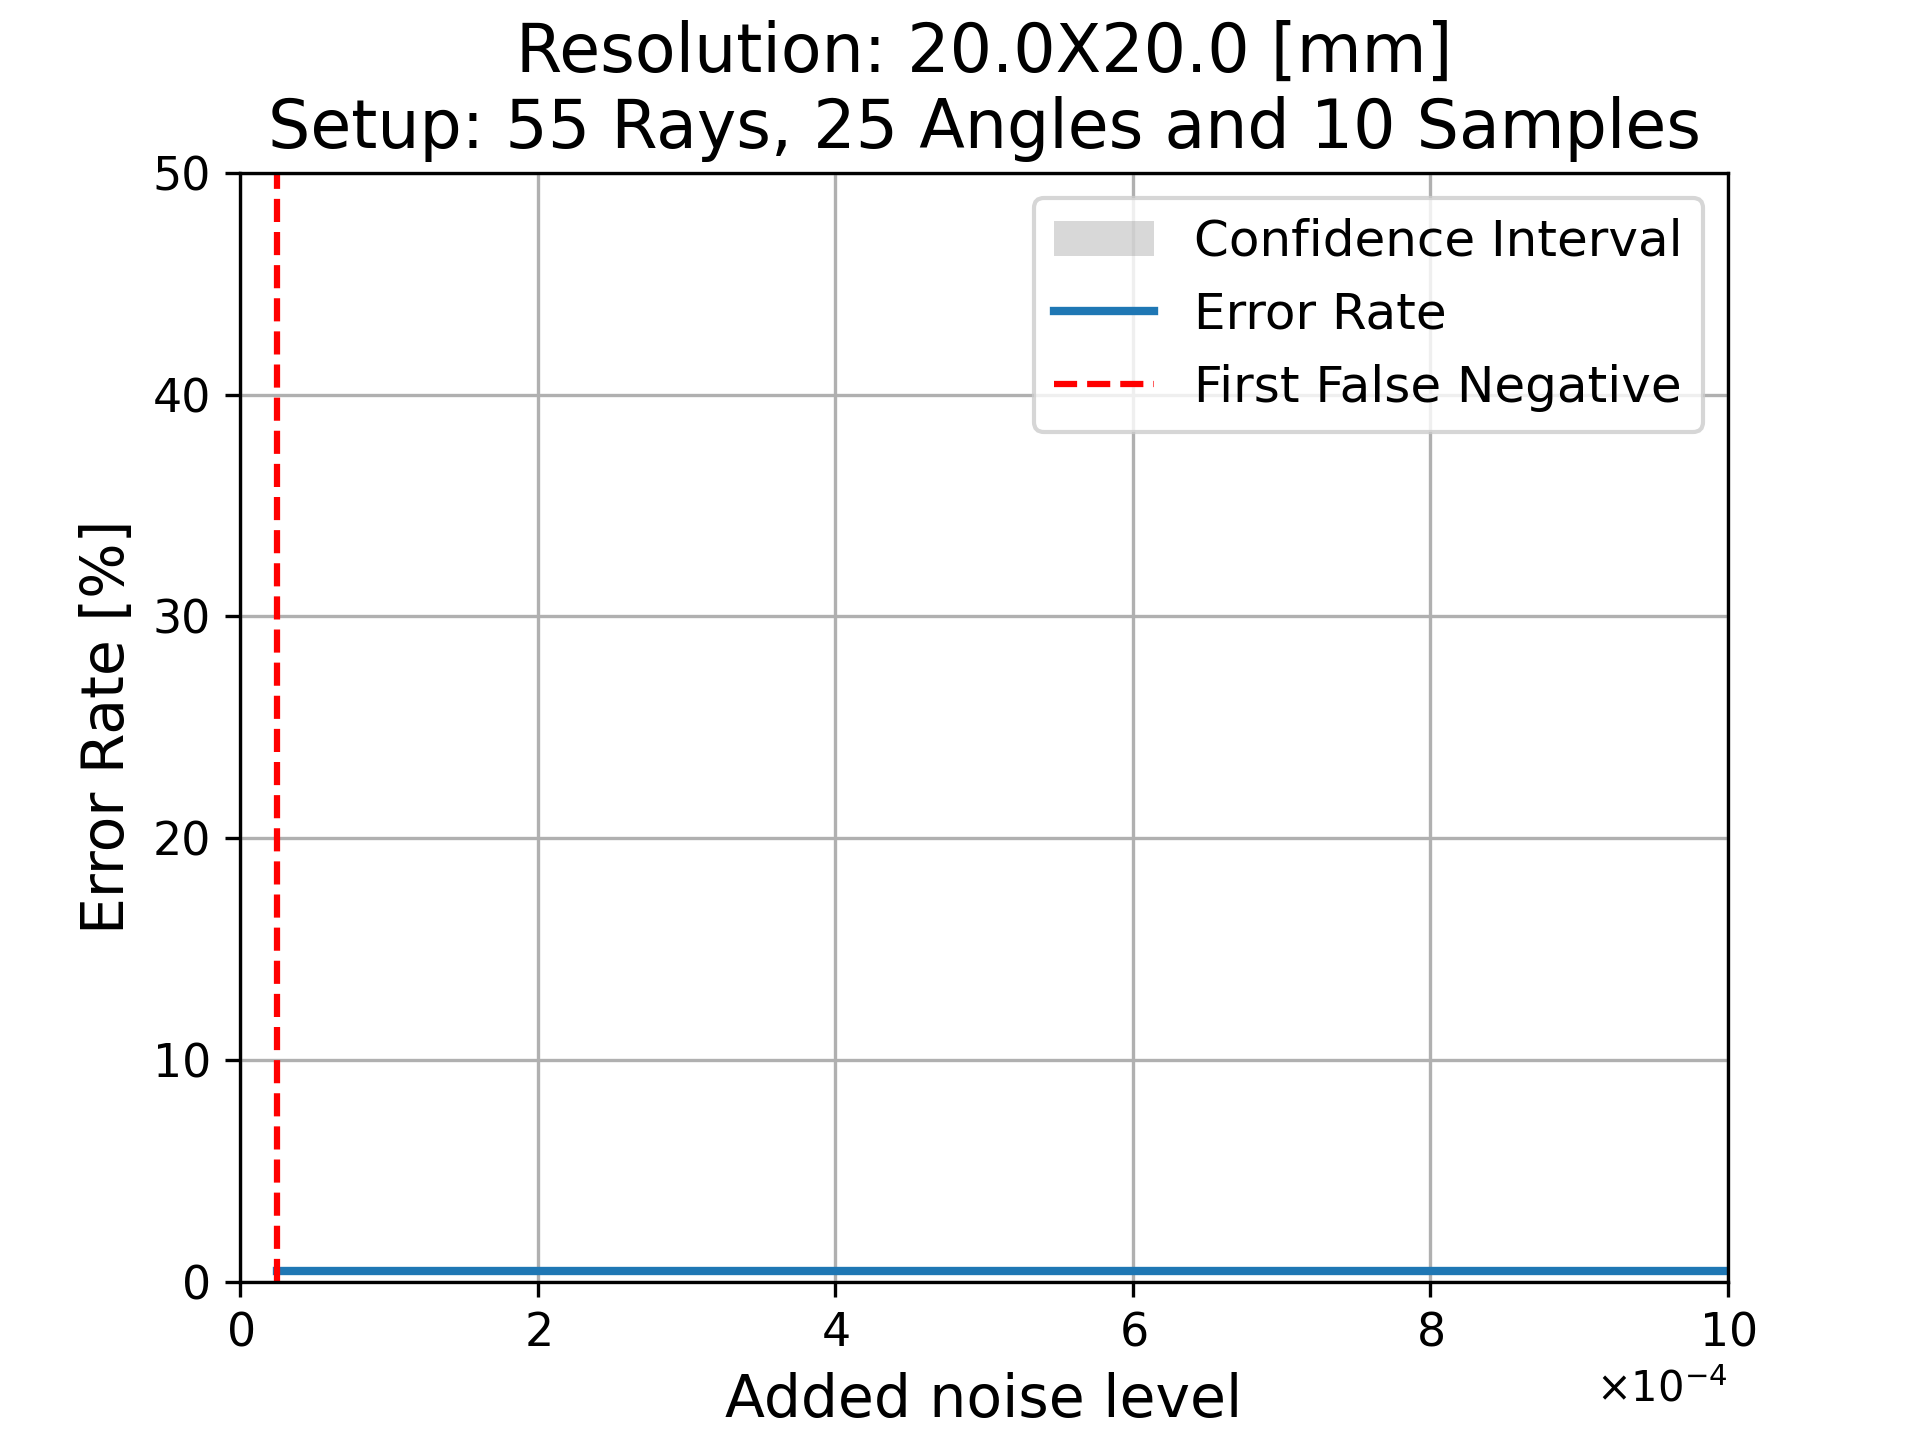
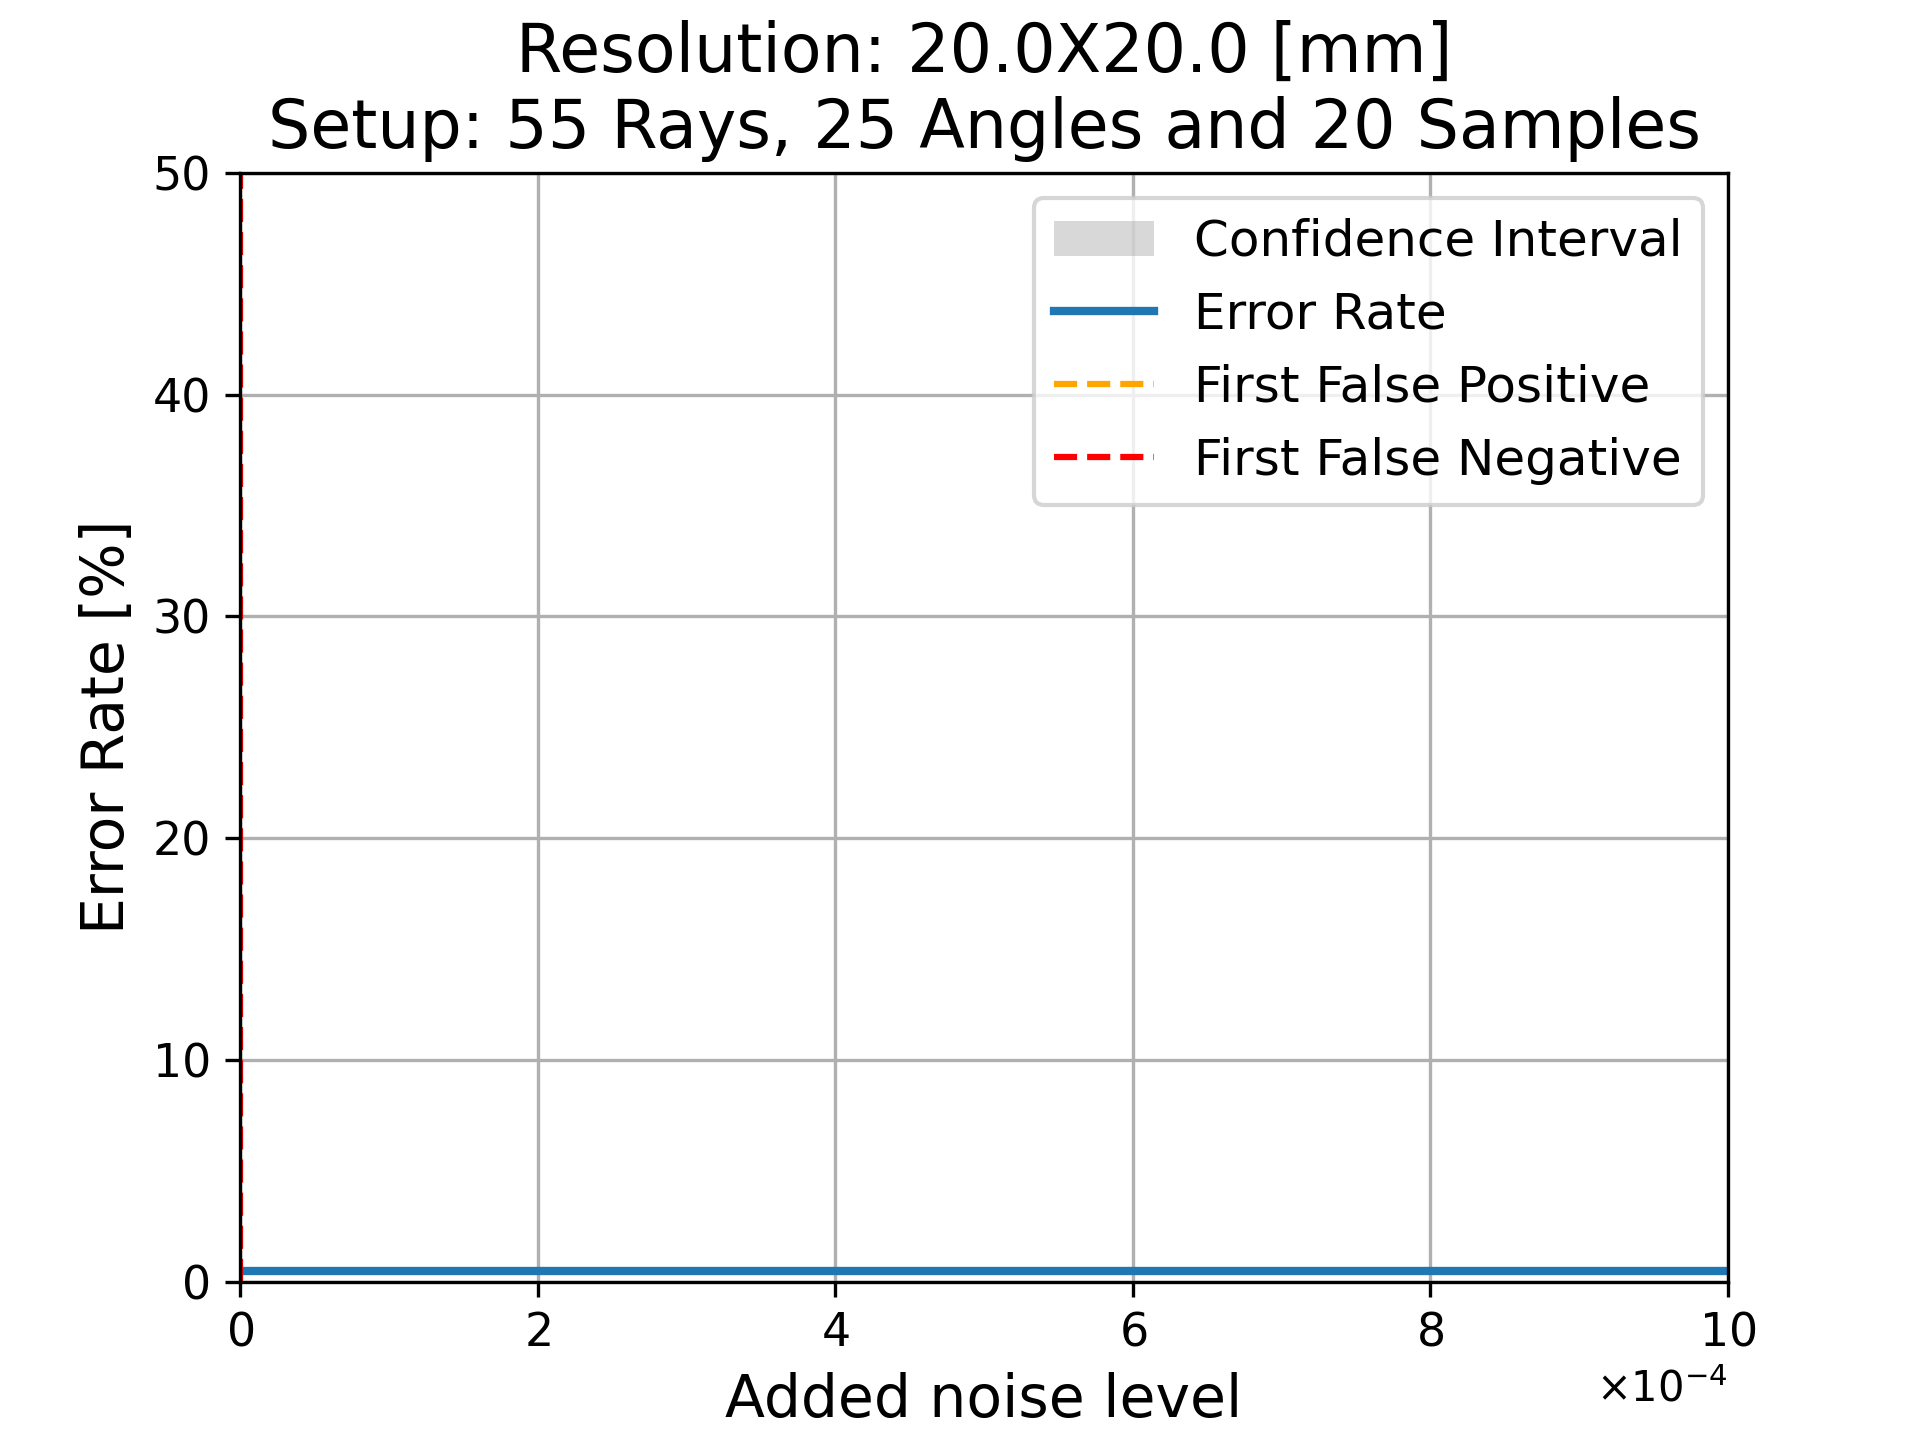
finalized final func

diff --git a/Exam_02526/final_func.py b/Exam_02526/final_func.py
@@ -8,7 +8,9 @@ def final_func(angle_no,
                 noise_limit = [1e-4, 1e-3], 
                 noise_size = 40, 
                 class_errors=True,
-                tree_type = 'beech'):
+                tree_type = 'beech',
+                ring_count = 10,
+                vol_pellet=1):
     import numpy as np
     import matplotlib.pyplot as plt
     from scipy.io import loadmat
@@ -19,12 +21,12 @@ def final_func(angle_no,
     from phanton_generator import phantom
 
     # Load the image with lead and steel shot
-    data = phantom(2,2, ring_count=1, wood_type=tree_type) #Pixel size: 0.1 mm, 5000x5000 pixels
+    data = phantom(2,2, ring_count=ring_count, wood_type=tree_type) #Pixel size: 0.1 mm, 5000x5000 pixels
 
     base_array = np.zeros(np.shape(data))   
-    known_wood = np.copy(base_array); known_wood[data == np.unique(data)[[1]]] = 1
-    known_iron= np.copy(base_array); known_iron[data == np.unique(data)[[2]]] = 1
-    known_lead = np.copy(base_array); known_lead[data == np.unique(data)[[3]]] = 1
+    known_wood = np.copy(base_array); known_wood[(data > 0) & (data < 6.5e-1)] = 1
+    known_iron= np.copy(base_array); known_iron[data == 6.5e-1] = 1
+    known_lead = np.copy(base_array); known_lead[data == 3.43] = 1
 
     # Downsample image
     downsizing = int(5e3/res) # define downsizing constant
@@ -118,7 +120,7 @@ def final_func(angle_no,
     plt.legend(fontsize=12)
     plt.grid()
     plt.title(f'Resolution: {500/res}X{500/res} [mm]\nSetup: {p} Rays, {angle_no} Angles and {sample_size} Samples', fontsize=16)
-    plt.savefig(f"Exam_02526/img/res{res}.png", dpi=300)
+    plt.savefig(f"Exam_02526/img/res{res}_{vol_pellet}.png", dpi=300)
     
 
     if class_errors==True:
@@ -153,7 +155,7 @@ def final_func(angle_no,
         cbar_ax = fig.add_axes([0.85, 0.15, 0.05, 0.7])
         cbar = fig.colorbar(im, cax=cbar_ax, ticks=[1, 2, 3, 4]) # Define colorbar
         cbar.ax.set_yticklabels(['Air', 'Tree', 'Iron', 'Lead']) # Define tick labels
-        plt.savefig(f"Exam_02526/img/classification_{res}.png")
+        plt.savefig(f"Exam_02526/img/classification_{res}_{vol_pellet}.png")
 
 
         fig, ax3 = plt.subplots()
@@ -168,9 +170,8 @@ def final_func(angle_no,
             yticklabels=['Wood', 'Iron', 'Lead']
         )
 
-        plt.savefig(f"Exam_02526/img/confusion{res}.png", dpi=300)
         ax3.set_ylabel('Real Class')
         ax3.set_xlabel('Modelled Class')
         ax3.set_title('Confusion Matrix')
-        plt.savefig(f"Exam_02526/img/confusion_{res}.png")
+        plt.savefig(f"Exam_02526/img/confusion_{res}_{vol_pellet}.png", dpi=300)
 

diff --git a/Exam_02526/viktor_edits.py b/Exam_02526/viktor_edits.py
@@ -9,7 +9,9 @@ angle_no = 25 # Define the number of angles to be used in paralleltomo.
 p = 55 # Define the number of rays to be used in paralleltomo.
 res = 25 # The picture will be (res x res). pixelwidth is (500/res mm)
 vol_pellet = 0.5 # Define how much of the pellet is inside the slice
-tree_type = 'Beech' # can be 'beech'/'fir'
+tree_type = 'Fir' # can be 'beech'/'fir'
+tree_ring_no = 10
+noise_lim = [2.5e-10, 1e-1]
 
 #%%
 # Load start time
@@ -26,7 +28,7 @@ elif tree_type == 'Fir':
 
 # Define the attenuation coefficients that are inside the slice
 x_steel_found = vol_pellet*x_steel + (1-vol_pellet)*x_tree
-x_lead_found = vol_pellet*x_lead + (1-vol_pellet)*x_lead
+x_lead_found = vol_pellet*x_lead + (1-vol_pellet)*x_tree
 
 # Define the pixel_width to be used for defining classification thresholds in image.
 pixel_width = 500/res # [mm]
@@ -35,8 +37,8 @@ print(f"the size of the pixels in the image is {pixel_width} mm")
 # Find the attenuation coefficients within the tree
 air_mean = 0
 tree_mean = x_tree*pixel_width/0.1
-steel_mean = (np.square(2)*x_steel + np.square(pixel_width)*x_tree)/np.square(pixel_width)*pixel_width/0.1
-lead_mean = (np.square(pixel_width)*x_lead + np.square(pixel_width)*x_tree)/np.square(pixel_width)*pixel_width/0.1
+steel_mean = (np.square(2)*x_steel + np.square(pixel_width-2)*x_tree)/np.square(pixel_width)*pixel_width/0.1
+lead_mean = (np.square(2)*x_lead + np.square(pixel_width-2)*x_tree)/np.square(pixel_width)*pixel_width/0.1
 
 # Find the point where the classes have equal probability of being
 air_tree_separator = (air_mean + tree_mean)/2
@@ -54,9 +56,10 @@ final_func(angle_no,
             tree_steel_separator, 
             steel_lead_separator, 
             class_errors=True,
-            sample_size=10,
+            sample_size=20,
             tree_type=tree_type,
-            noise_limit=[2.5e-5, 1e-3]
+            noise_limit=noise_lim,
+            ring_count = tree_ring_no
             )
 
 plt.show()
